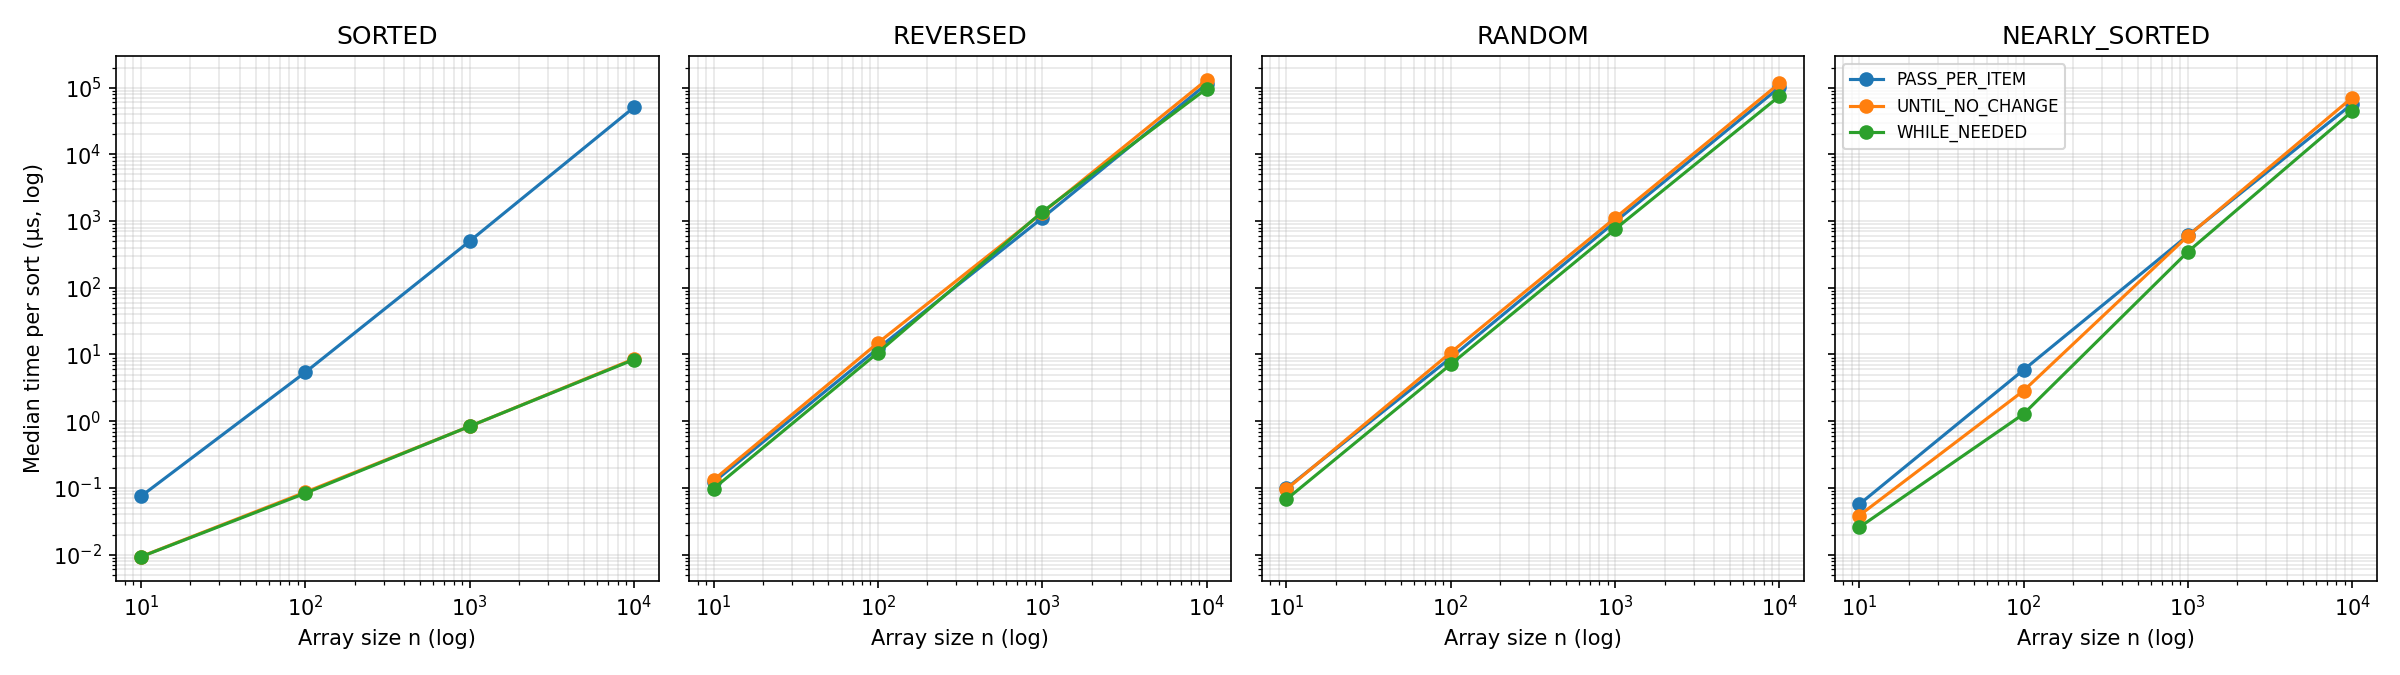
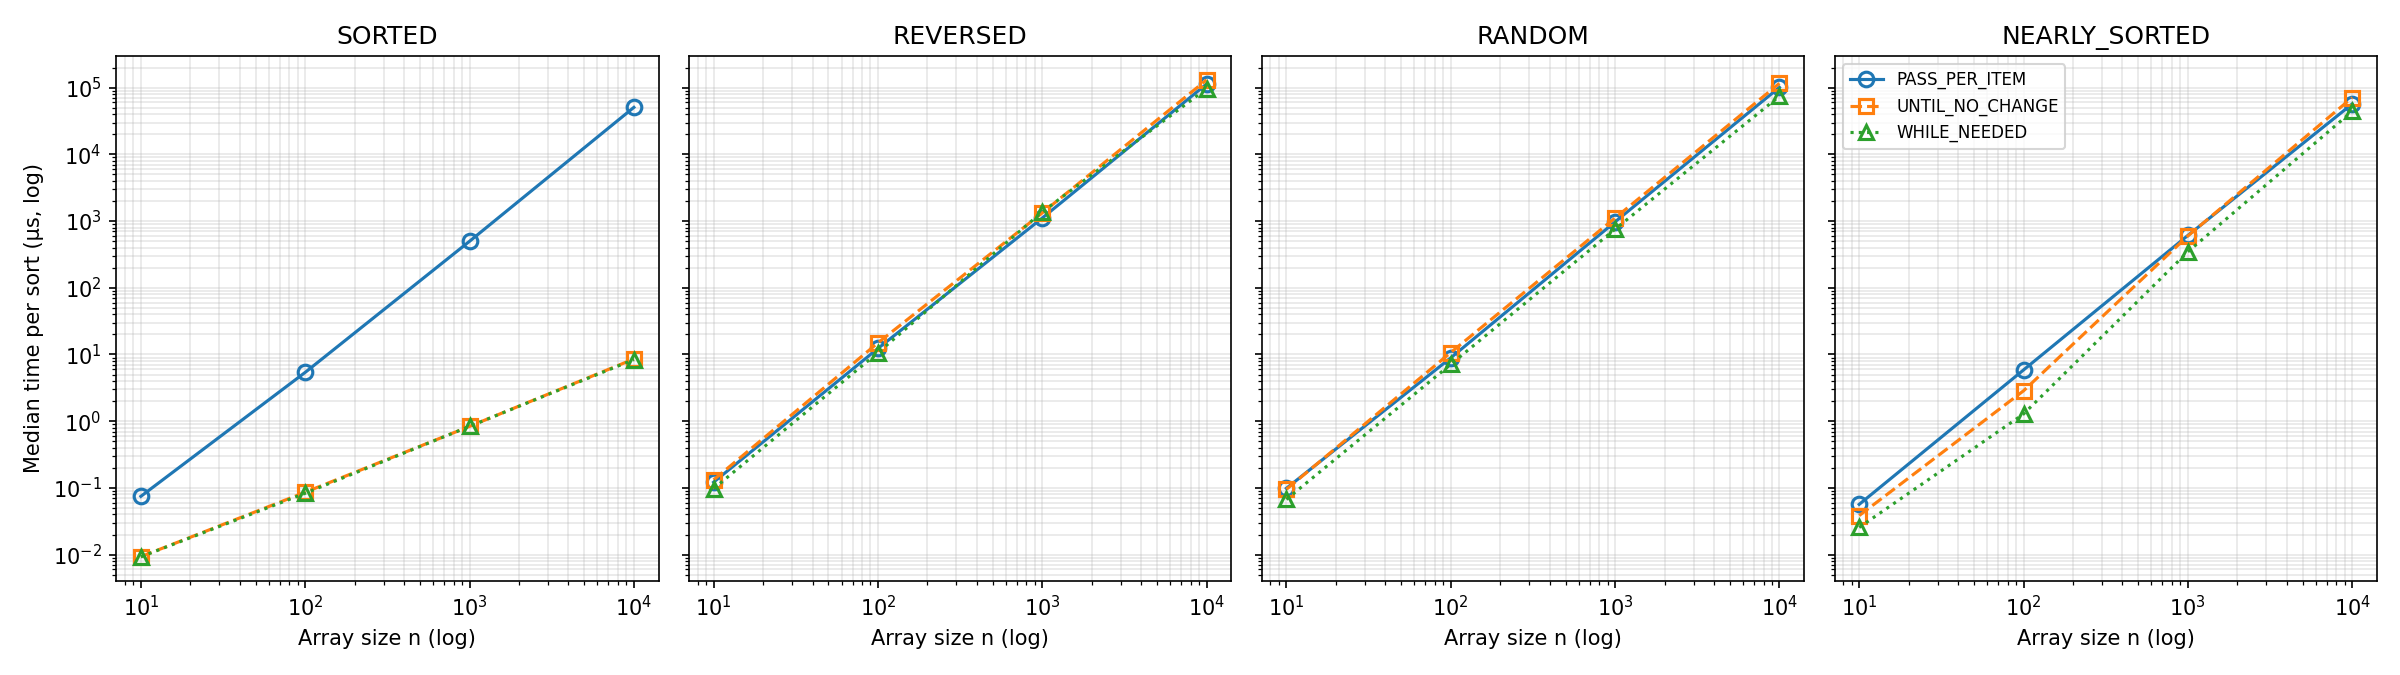
Added README and improved plots

diff --git a/analysis/analyze.py b/analysis/analyze.py
@@ -23,6 +23,8 @@ import pandas as pd  # noqa: E402
 ALGORITHMS = ["PASS_PER_ITEM", "UNTIL_NO_CHANGE", "WHILE_NEEDED"]
 ORDERS = ["SORTED", "REVERSED", "RANDOM", "NEARLY_SORTED"]
 COLORS = {"PASS_PER_ITEM": "#1f77b4", "UNTIL_NO_CHANGE": "#ff7f0e", "WHILE_NEEDED": "#2ca02c"}
+# Different markers and line styles, so lines with (almost) equal values stay visible
+STYLES = {"PASS_PER_ITEM": ("o", "-"), "UNTIL_NO_CHANGE": ("s", "--"), "WHILE_NEEDED": ("^", ":")}
 KEYS = ["algorithm", "size", "order"]
 OUT = Path("results/analysis")
 
@@ -50,6 +52,8 @@ def plot_boxplots(data):
                              medianprops={"color": "black"})
             for patch in box["boxes"]:
                 patch.set_facecolor(COLORS[algorithm])
+                patch.set_edgecolor(COLORS[algorithm])  # flat boxes still show their colour
+                patch.set_linewidth(2)
             ax.plot([], [], color=COLORS[algorithm], linewidth=8, label=algorithm)
         ax.set_xticks(range(len(ORDERS)))
         ax.set_xticklabels(ORDERS)
@@ -70,7 +74,9 @@ def plot_scaling(stats):
     for ax, order in zip(axes, ORDERS):
         for algorithm in ALGORITHMS:
             line = stats[(stats["order"] == order) & (stats["algorithm"] == algorithm)].sort_values("size")
-            ax.plot(line["size"], line["median"], marker="o", color=COLORS[algorithm], label=algorithm)
+            marker, linestyle = STYLES[algorithm]
+            ax.plot(line["size"], line["median"], marker=marker, linestyle=linestyle, markersize=7,
+                    markerfacecolor="none", markeredgewidth=1.5, color=COLORS[algorithm], label=algorithm)
         ax.set_xscale("log")
         ax.set_yscale("log")
         ax.set_title(order)

diff --git a/README.md b/README.md
@@ -1,0 +1,32 @@
+# Bubble Sort Performance Experiment
+
+Experiment 1, Experimentation & Evaluation 2026 (USI).
+
+We measured the execution time of three bubble sort versions (PassPerItem, UntilNoChange,
+WhileNeeded) on arrays of 10, 100, 1,000 and 10,000 numbers in four initial orders
+(sorted, reversed, random, almost sorted). Each of the 48 conditions was measured 150 times
+(30 measurements × 5 runs) with `System.nanoTime()`.
+
+## Contents
+
+| Path | Content |
+|---|---|
+| `src/exp01/` | The three provided algorithms + `Sorter` interface (unmodified) and our measurement program `BubbleBenchmark.java` |
+| `run_experiment.sh` | Compiles the code and runs the experiment 5 times |
+| `analysis/analyze.py` | Computes the statistics and creates the plots |
+| `results/run1.csv` … `run5.csv` | Raw measurements (one row per batch) |
+| `results/environment.txt` | Computer and Java details of our run |
+| `results/analysis/` | Statistics tables and plots used in the report |
+
+## How to reproduce
+
+Requirements: Java 25 and Python 3.
+
+```bash
+./run_experiment.sh                     # about 10 minutes
+python3 -m venv .venv
+.venv/bin/pip install pandas matplotlib
+.venv/bin/python analysis/analyze.py    # writes results/analysis/
+```
+
+Before running, close all other applications and connect the computer to the power adapter.
